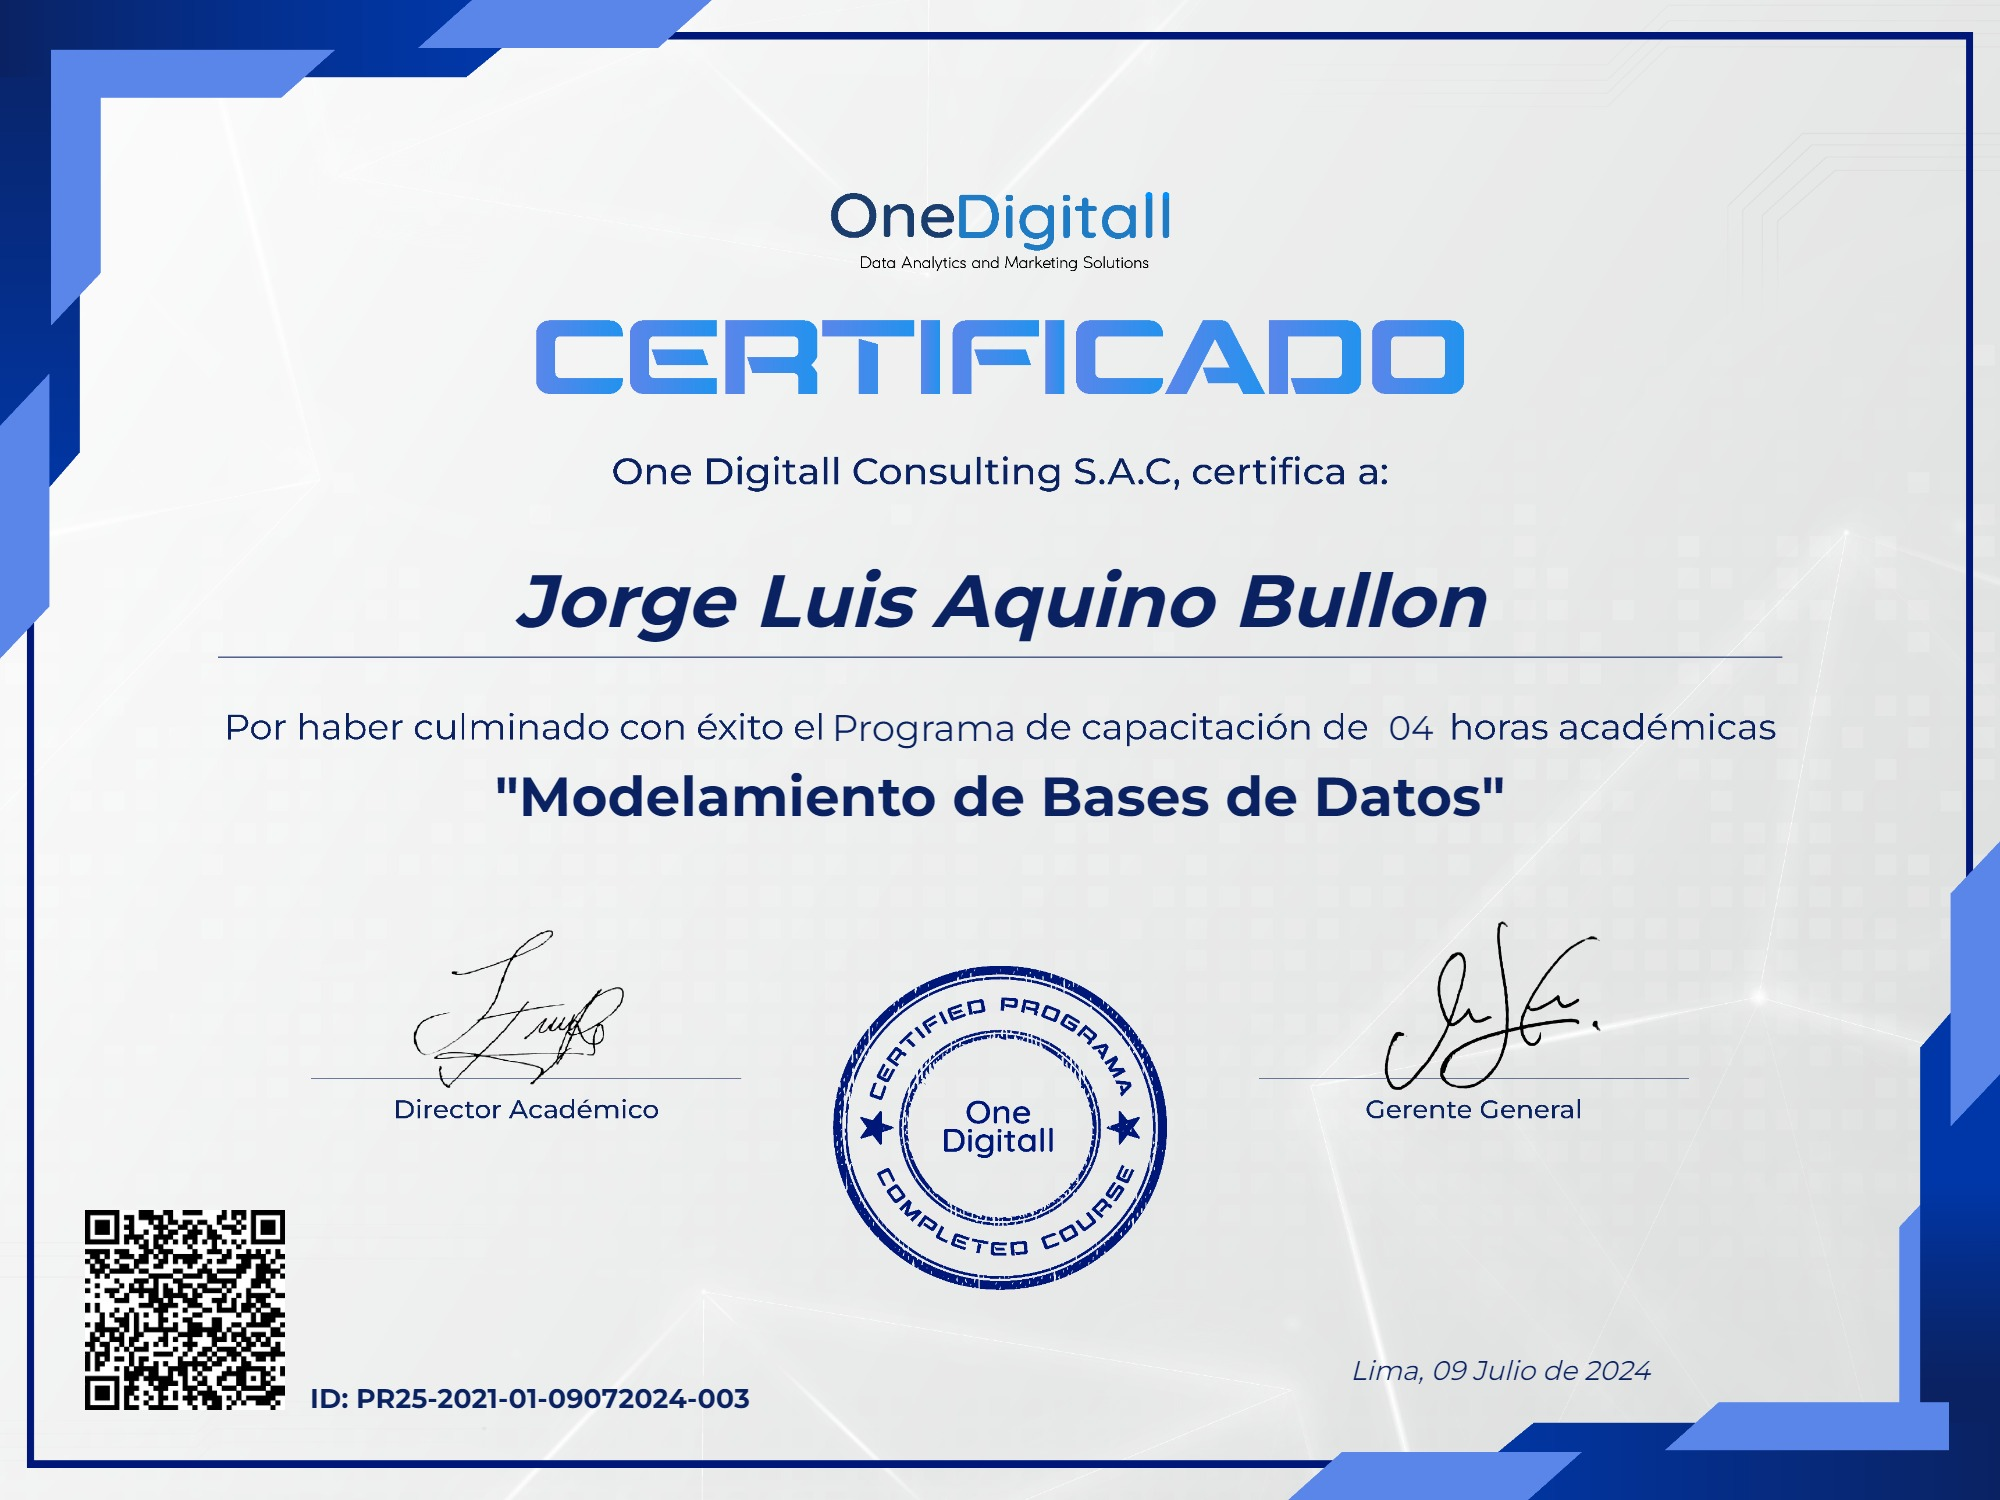
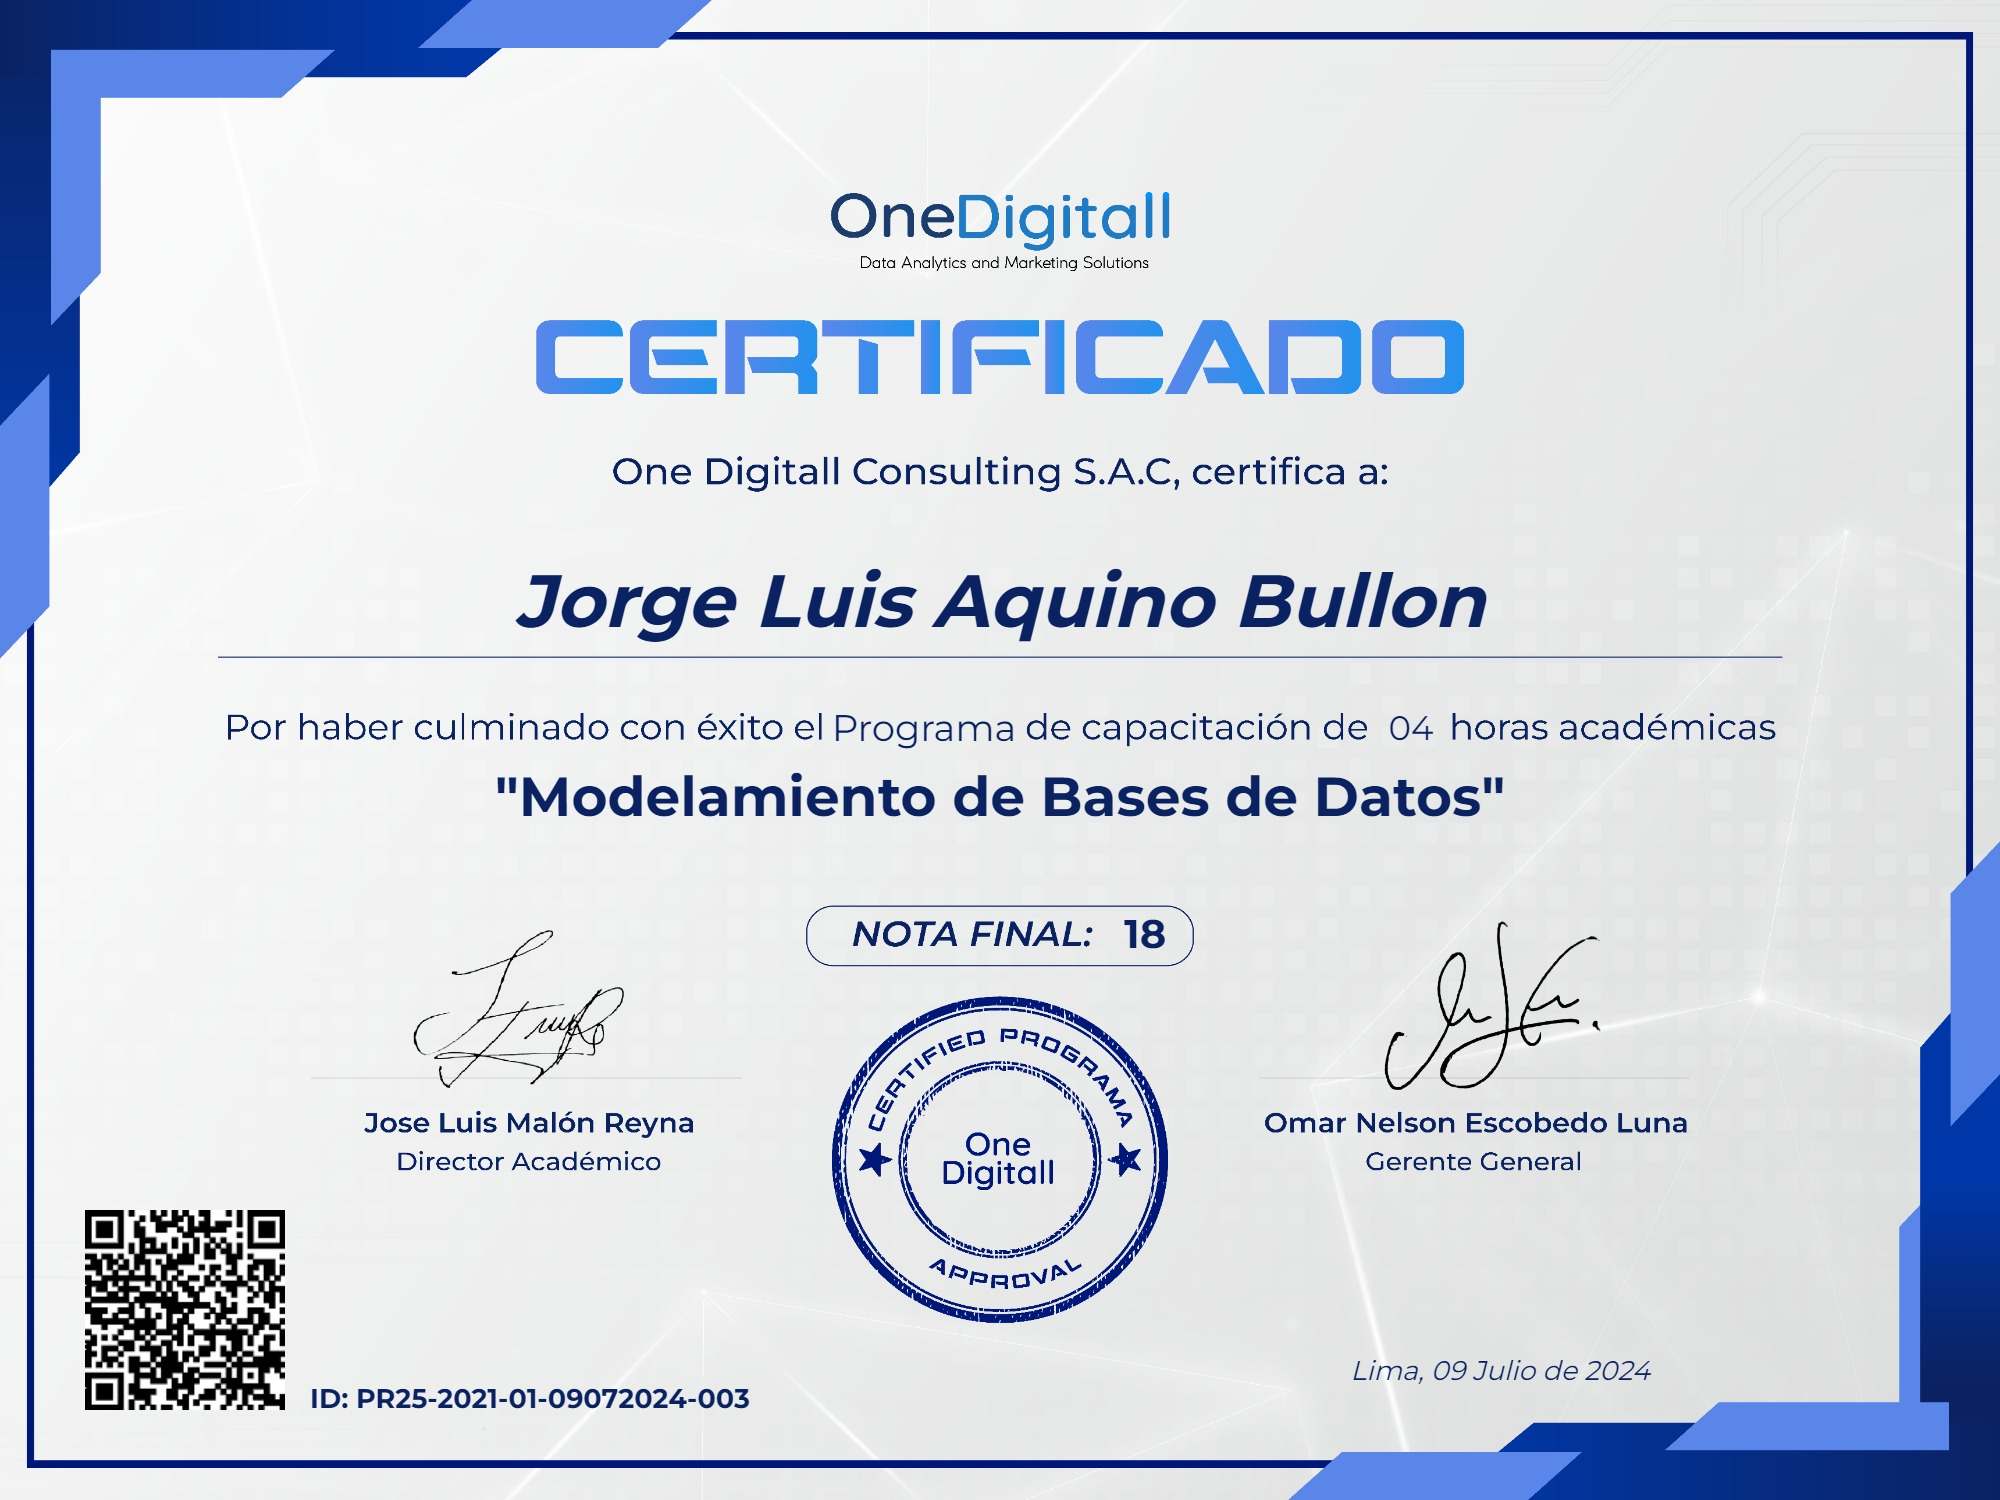
arreglo de nota

diff --git a/public/certification2.js b/public/certification2.js
@@ -319,7 +319,7 @@ function certificationDetail(id) {
    ctx.font = "bold 40px Montserrat-bold";
    ctx.fillStyle ="#0a2262";
    ctx.textAlign = "center";
-   ctx.fillText(note, 1150,975);
+   ctx.fillText(note, 1145,936);
   
   
   
